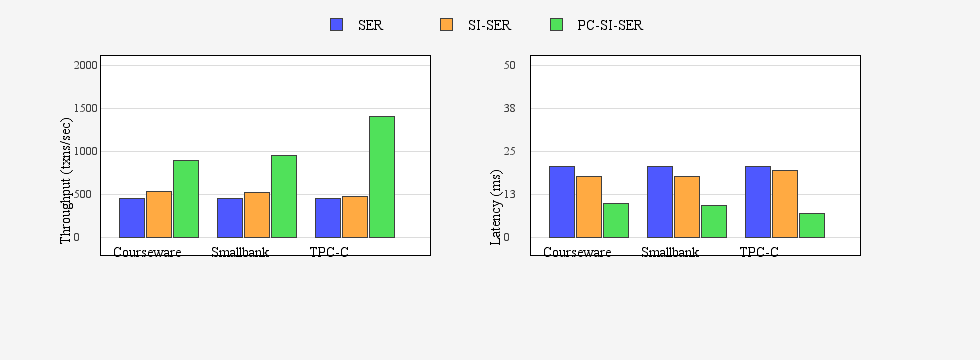
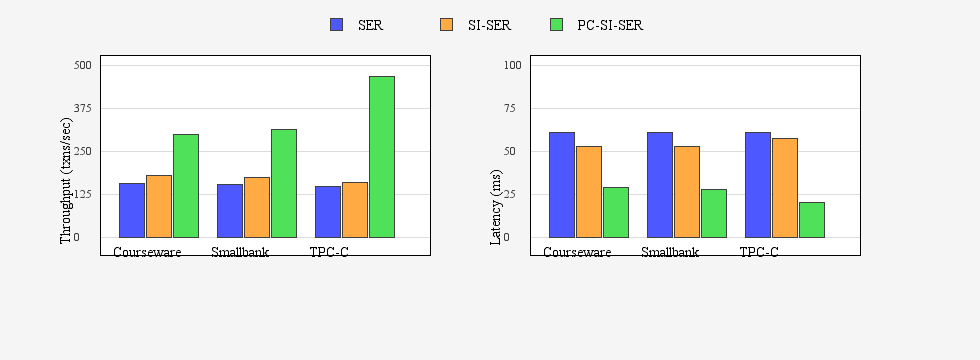
finish exp

diff --git a/src/main/java/algorithm/Executor.java b/src/main/java/algorithm/Executor.java
@@ -369,28 +369,30 @@ public class Executor {
 		}
 
 		long commitTs;
-		if (needsArbiterRoundTrip(effectiveLevel, readSet, writeSet)) {
-			// 通过仲裁节点进行冲突检测和提交判定（含通信开销）
-			commitTs = requestArbiterCommitDecision(txId, dcId, effectiveLevel, sts, readSet, writeSet);
+		if (needsConflictCheck(effectiveLevel, readSet, writeSet)) {
+			// 冲突检测集合非空，向其他节点请求冲突检测（1 RTT）
+			commitTs = requestConflictCheckFromPeers(txId, dcId, effectiveLevel, sts, readSet, writeSet);
 		} else {
 			// 冲突检测集合为空，直接本地提交
-			commitTs = localCommitWithoutArbiter(txId, dcId, sts, readSet, writeSet);
+			commitTs = directLocalCommit(txId, dcId, sts, readSet, writeSet);
 		}
 		if (commitTs < 0L) {
 			return false;
 		}
 
-		// 模拟网络延迟并应用写入
-		sleepMillis(randomRttMs());
+		// 本地立刻应用写入
 		dataCenter.applyWrites(new HashMap<>(buffer), commitTs);
 
-		// 传播更新到其他副本
-		propagateToOtherReplicas(dcId, txId, buffer, commitTs);
+		// 异步传播更新到其他副本
+		propagateToOtherReplicasAsync(dcId, txId, buffer, commitTs);
+
+		// 等待1个RTT使更新到达其他节点
+		sleepMillis(randomRttMs());
 
 		return true;
 	}
 
-	private boolean needsArbiterRoundTrip(IsolationLevel level,
+private boolean needsConflictCheck(IsolationLevel level,
 									   Set<String> readSet,
 									   Set<String> writeSet) {
 		if (level == IsolationLevel.SNAPSHOT_ISOLATION) {
@@ -402,11 +404,11 @@ public class Executor {
 		return false;
 	}
 
-	private long localCommitWithoutArbiter(long txId,
-									 int originDcId,
-									 long sts,
-									 Set<String> readSet,
-									 Set<String> writeSet) {
+	private long directLocalCommit(long txId,
+							int originDcId,
+							long sts,
+							Set<String> readSet,
+							Set<String> writeSet) {
 		synchronized (godLock) {
 			long cts = logicalClock.incrementAndGet();
 			commitLog.add(new CommitRecord(txId, sts, cts, readSet, writeSet, originDcId));
@@ -417,41 +419,72 @@ public class Executor {
 		}
 	}
 
-	private long requestArbiterCommitDecision(long txId,
-										 int originDcId,
-										 IsolationLevel level,
-										 long sts,
-										 Set<String> readSet,
-										 Set<String> writeSet) throws InterruptedException {
-		// requester -> arbiter
+	private long requestConflictCheckFromPeers(long txId,
+									   int originDcId,
+									   IsolationLevel level,
+									   long sts,
+									   Set<String> readSet,
+									   Set<String> writeSet) throws InterruptedException {
+		// 请求 -> 其他节点
 		sleepMillis(randomRttMs());
 
-		long decision = arbitrateCommit(txId, originDcId, level, sts, readSet, writeSet);
+		// 收集来自所有其他节点的冲突检测结果
+		boolean conflictDetected = false;
+		for (DataCenterNode dc : dataCenters) {
+			if (dc.getId() == originDcId) {
+				continue;
+			}
+			if (checkConflictLocallyAt(dc, level, sts, readSet, writeSet)) {
+				conflictDetected = true;
+				break;
+			}
+		}
 
-		// arbiter -> requester
+		// 回复 <- 其他节点
 		sleepMillis(randomRttMs());
-		return decision;
-	}
 
-	private long arbitrateCommit(long txId,
-							int originDcId,
-							IsolationLevel level,
-							long sts,
-							Set<String> readSet,
-							Set<String> writeSet) {
+		if (conflictDetected) {
+			return -1L; // abort
+		}
+
+		// 无冲突，在原始节点本地提交
 		synchronized (godLock) {
 			long cts = logicalClock.incrementAndGet();
-
-			if (!checkConflictByLevel(level, sts, cts, readSet, writeSet)) {
-				return -1L;
-			}
-
 			commitLog.add(new CommitRecord(txId, sts, cts, readSet, writeSet, originDcId));
 			committedTransactions.add(txId);
 			commitTimestampByTxn.put(txId, cts);
 			replicaVisibleTransactions.computeIfAbsent(originDcId, k -> ConcurrentHashMap.newKeySet()).add(txId);
-			replicaVisibleTransactions.computeIfAbsent(ARBITER_NODE_ID, k -> ConcurrentHashMap.newKeySet()).add(txId);
 			return cts;
+		}
+	}
+
+	private boolean checkConflictLocallyAt(DataCenterNode dc,
+									  IsolationLevel level,
+									  long sts,
+									  Set<String> readSet,
+									  Set<String> writeSet) {
+		synchronized (godLock) {
+			// 检查所有sts之后提交的事务
+			for (CommitRecord record : commitLog) {
+				if (record.getCts() <= sts) {
+					continue;
+				}
+
+				boolean wwConflict = hasIntersection(writeSet, record.getWriteSet());
+				if (level == IsolationLevel.SNAPSHOT_ISOLATION) {
+					if (wwConflict) {
+						return true;
+					}
+					continue;
+				}
+
+				boolean rwConflict = hasIntersection(readSet, record.getWriteSet());
+				boolean wrConflict = hasIntersection(writeSet, record.getReadSet());
+				if (wwConflict || rwConflict || wrConflict) {
+					return true;
+				}
+			}
+			return false;
 		}
 	}
 
@@ -555,7 +588,7 @@ public class Executor {
 		return true;
 	}
 
-	private void propagateToOtherReplicas(int originDcId, long txId, Map<String, Integer> writes, long commitTs) {
+	private void propagateToOtherReplicasAsync(int originDcId, long txId, Map<String, Integer> writes, long commitTs) {
 		if (writes == null || writes.isEmpty()) {
 			return;
 		}
